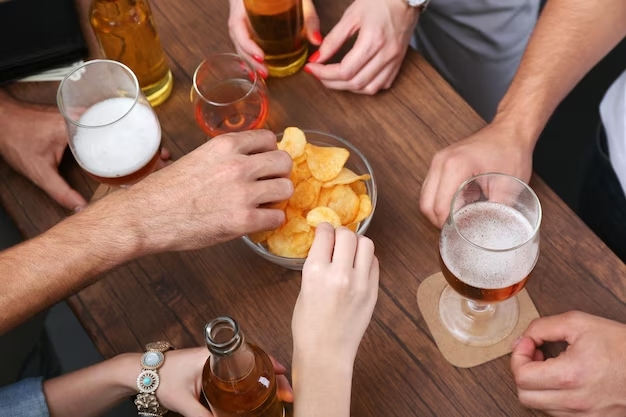
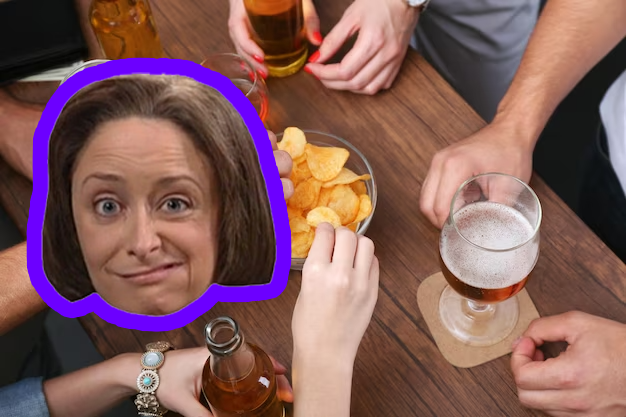
Update image displayed when sharing the alcohol calculator on social media
Updates the social sharing image for the alcohol calculator page, improving SEO.

Replit-Commit-Author: Agent
Replit-Commit-Session-Id: bcdf056a-4e26-4b10-b56a-f8c4b9e52a65
Replit-Commit-Screenshot-Url: https://storage.googleapis.com/screenshot-production-us-central1/3de2a7e6-cf82-42d3-b666-8e4c9f4c27d4/bcdf056a-4e26-4b10-b56a-f8c4b9e52a65/XLcCAap

Changed region(s): [[0.0304, 0.1247, 0.4856, 0.8106]]

diff --git a/server/index.ts b/server/index.ts
@@ -34,7 +34,7 @@ app.get('/alcohol-calculator', (req, res, next) => {
   if (isCrawler) {
     const title = "Buzzkill | Beer and Wine Weight Gain Calculator | Get Up Earlier";
     const description = "Calculate how daily beer and wine consumption affects your weight gain. Interactive alcohol calorie calculator shows the impact of habitual drinking on your fitness goals.";
-    const image = `${req.protocol}://${req.get('host')}/buzzkill-social.png`;
+    const image = `${req.protocol}://${req.get('host')}/buzzkill-calculator-og-image.png`;
     const url = `${req.protocol}://${req.get('host')}/alcohol-calculator`;
     
     // Read the default HTML and inject meta tags
